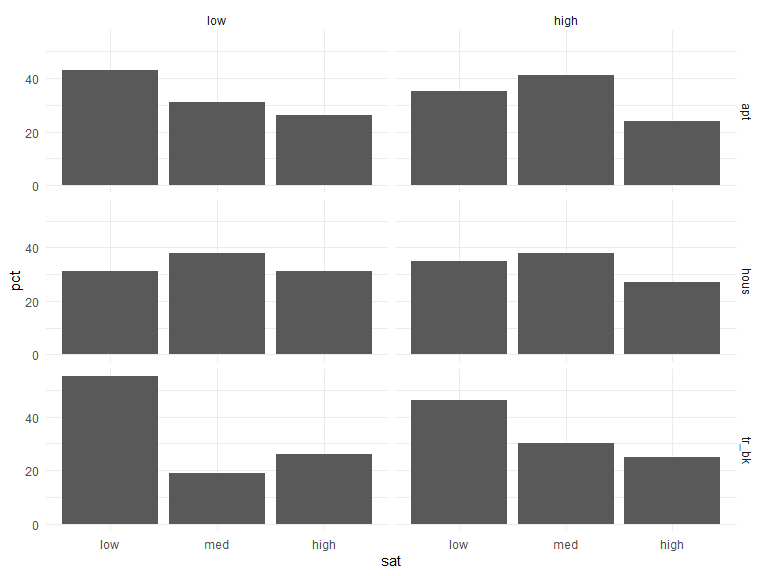
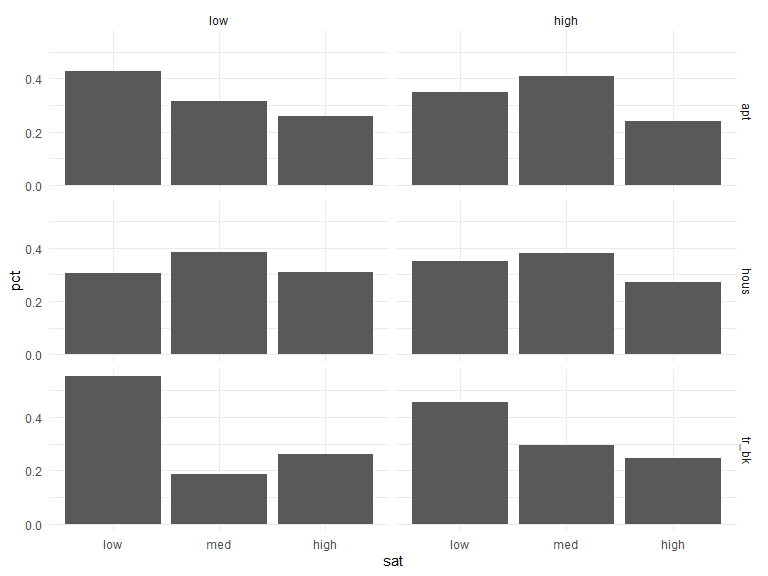
add interpretation, confidence intervals

diff --git a/p8131_hw4_jsg2145.md b/p8131_hw4_jsg2145.md
@@ -32,31 +32,29 @@ df_sum = union(df_low, df_med) %>%
   group_by(conx, hous_tp) %>% 
   mutate(n = sum(low, med, high))
 
-
 df_tbl = df_sum %>% 
   group_by(conx, hous_tp) %>% 
-  summarize(low_pct = round(low/n*100, digits = 0),
-            med_pct = round(med/n*100, digits = 0),
-            high_pct = round(high/n*100, digits = 0)
-  )
+  summarize(low = low/n,
+            med = med/n,
+            high = high/n)
 ```
 
 ``` r
-df_tbl %>% knitr::kable()
+df_tbl %>% knitr::kable(digits = 2)
 ```
 
-| conx | hous\_tp | low\_pct | med\_pct | high\_pct |
-| :--- | :------- | -------: | -------: | --------: |
-| high | apt      |       31 |       26 |        43 |
-| high | hous     |       38 |       31 |        31 |
-| high | tr\_bk   |       19 |       26 |        55 |
-| low  | apt      |       41 |       24 |        35 |
-| low  | hous     |       38 |       27 |        35 |
-| low  | tr\_bk   |       30 |       25 |        46 |
+| conx | hous\_tp |  low |  med | high |
+| :--- | :------- | ---: | ---: | ---: |
+| high | apt      | 0.31 | 0.26 | 0.43 |
+| high | hous     | 0.38 | 0.31 | 0.31 |
+| high | tr\_bk   | 0.19 | 0.26 | 0.55 |
+| low  | apt      | 0.41 | 0.24 | 0.35 |
+| low  | hous     | 0.38 | 0.27 | 0.35 |
+| low  | tr\_bk   | 0.30 | 0.25 | 0.46 |
 
 ``` r
 df_tidy_tbl = df_tbl %>% 
-  pivot_longer(cols = c(low_pct, med_pct, high_pct), names_to = "sat", values_to = "pct") %>% 
+  pivot_longer(cols = c(low, med, high), names_to = "sat", values_to = "pct") %>% 
   ungroup() %>% 
   mutate(sat = str_remove(sat, "_pct$"),
          sat = factor(sat, labels = c("low", "med", "high")),
@@ -104,6 +102,13 @@ summary(hagen.multi)
     ## Residual Deviance: 3605.48 
     ## AIC: 3621.48
 
+It appears that low contact with neighbors is associated with lower
+medium and high satisfaction holding housing type constant, while higher
+contact with neighbors is associated with an increase in medium and high
+satisfaction in the tower block housing compared to apartments. But,
+there is no clear trend between satisfaction and house type between
+houses and apartments while holding contact constant.
+
 ``` r
 pihat = predict(hagen.multi, type = "probs") 
 m = rowSums(df_sum[3:5])
@@ -124,7 +129,73 @@ pval
 
     ## [1] 0.1395072
 
-The p-value is 0.1395072, so we do not reject the null, indicating the
-fit is acceptable.
+The p-value is 0.14, so we do not reject the null, indicating the fit is
+acceptable.
 
-There is a
+``` r
+tidy.err = summary(hagen.multi)$standard.error %>% 
+  broom::tidy() %>% 
+  mutate(value = "err")
+
+tidy.coef = summary(hagen.multi)$coefficients %>% 
+  broom::tidy() %>% 
+  mutate(value = "coef")
+
+tidy.multi = union(tidy.coef, tidy.err) %>% 
+  janitor::clean_names() %>% 
+  select(-x_intercept) %>% 
+  pivot_longer(cols = c(conxlow, hous_tphous, hous_tptr_bk), values_to = "estimate") %>% 
+  pivot_wider(names_from = value, values_from = estimate)
+```
+
+``` r
+tidy.ci = tidy.multi %>% 
+  group_by(rownames, name) %>% 
+  mutate(
+    lower = (coef - qnorm(.975) * err),
+    upper = (coef + qnorm(.975) * err)) %>%
+  select(rownames, name, lower, upper) %>% 
+  ungroup() %>% 
+  rename(sat = rownames, par = name)
+
+tidy.ci %>% 
+  knitr::kable(digits = 3)
+```
+
+| sat  | par            |   lower |   upper |
+| :--- | :------------- | ------: | ------: |
+| med  | conxlow        | \-0.551 | \-0.041 |
+| med  | hous\_tphous   | \-0.212 |   0.351 |
+| med  | hous\_tptr\_bk |   0.071 |   0.743 |
+| high | conxlow        | \-0.560 | \-0.097 |
+| high | hous\_tphous   | \-0.569 | \-0.039 |
+| high | hous\_tptr\_bk |   0.347 |   0.936 |
+
+We are 95% confident the log odds ratio of reporting medium satisfaction
+compared to low satisfaction will fall between -0.551 and -0.041 for low
+contact compared to high contact holding house type constant.
+
+We are 95% confident the log odds ratio of reporting medium satisfaction
+compared to low satisfaction will fall between -0.212 and 0.351 for
+people living in houses compared to those living in apartments holding
+contact constant.
+
+We are 95% confident the log odds ratio of reporting medium satisfaction
+compared to low satisfaction will fall between 0.071 and 0.743 for
+people living in tower blocks compared to those living in apartments
+holding contact constant.
+
+We are 95% confident the log odds ratio of reporting high satisfaction
+compared to low satisfaction will fall between -0.56 and -0.097 for
+people who reported low contact compared to those who reported high
+contact holding housing type constant.
+
+We are 95% confident the log odds ratio of reporting high satisfaction
+compared to low satisfaction will fall between -0.569 and -0.039 for
+people who live in houses compared to those who live in apartments
+holding contact constant.
+
+We are 95% confident the log odds ratio of reporting high satisfaction
+compared to low satisfaction will fall between 0.347 and 0.936 for
+people who live in tower blocks compared to those who live in apartments
+holding contact constant.
